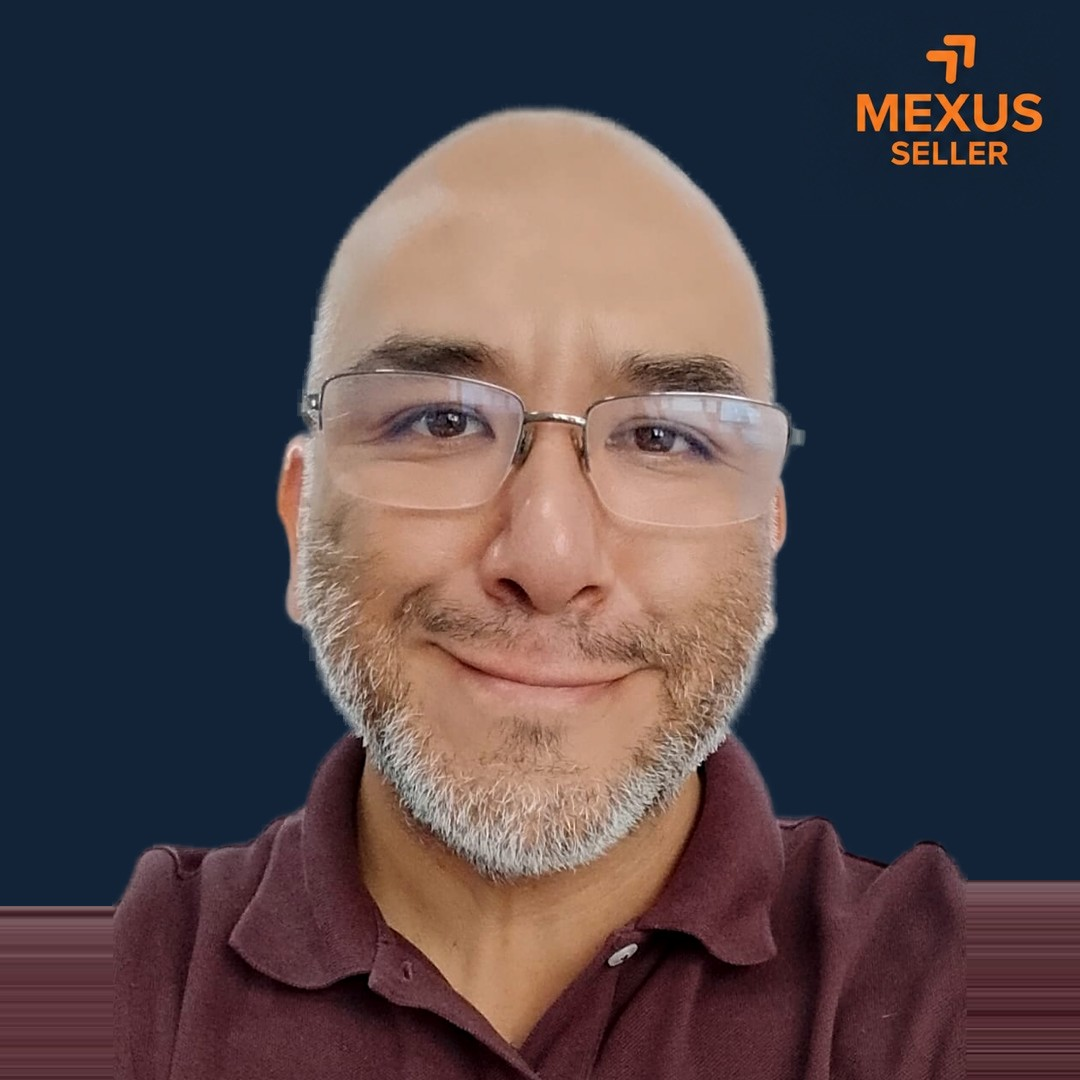
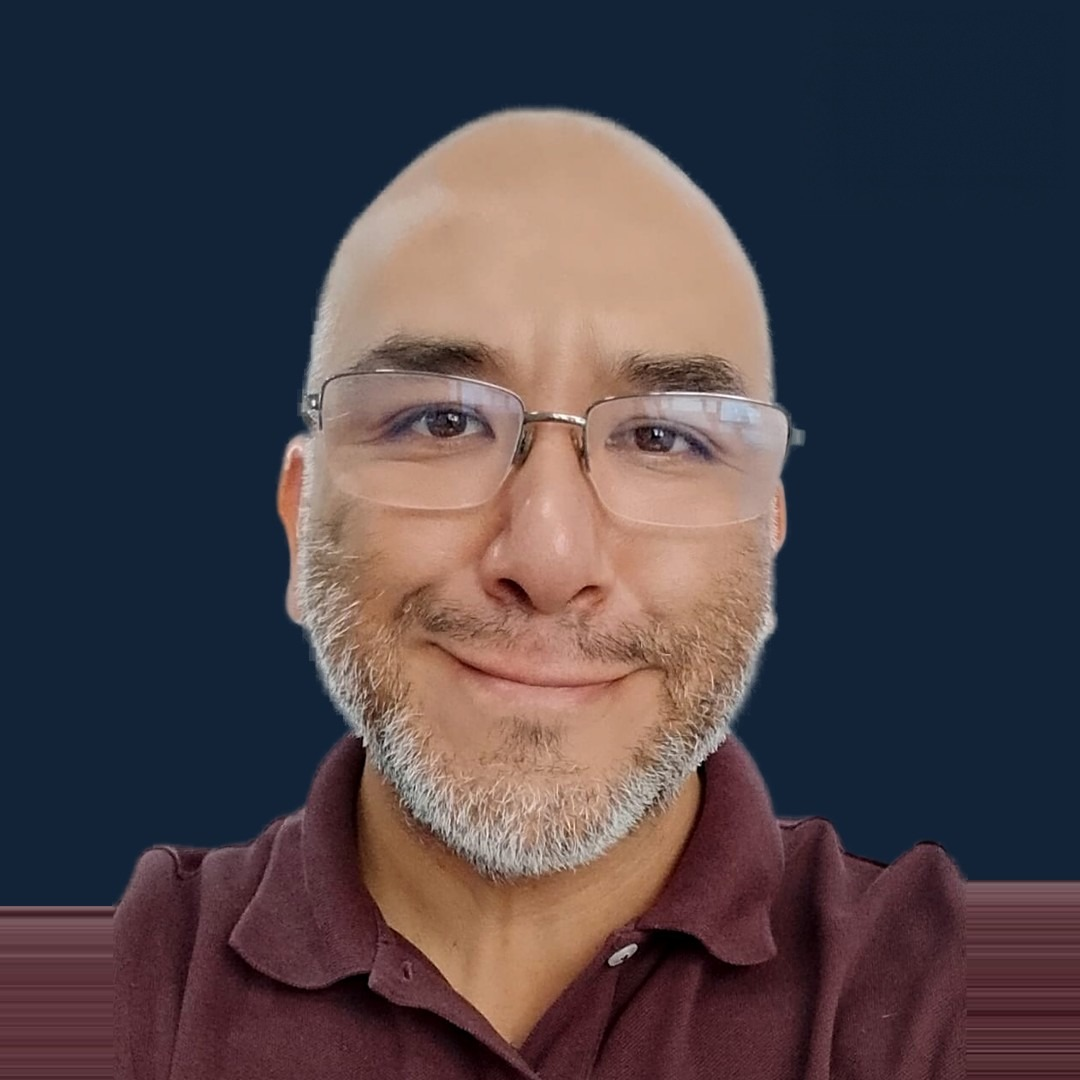
feat(home): add Sandra to the team and refresh team photos
Sandra joined as Account Specialist (catalog and operations), so she gets a
card and a mention in the team FAQ; the desktop grid moves to 6 columns so the
team stays on one row. Rodrigo's headshot is replaced with a more natural one,
and the MEXUS logo is removed from every photo since the page already carries
the brand. Image URLs are version-bumped so cached photos refresh.

Changed region(s): [[0.7944, 0.0306, 0.9778, 0.1528]]

diff --git a/index.html b/index.html
@@ -330,7 +330,7 @@ footer a{color:inherit}
   .casa .box{grid-template-columns:auto 1fr;gap:50px;align-items:center;padding:56px}
   .casa .lg{width:220px;height:220px}
   .serv .cards{grid-template-columns:repeat(3,1fr);gap:16px}
-  .tm{display:grid;grid-template-columns:repeat(5,1fr);overflow:visible;margin:28px 0 0;padding:0}
+  .tm{display:grid;grid-template-columns:repeat(6,1fr);overflow:visible;margin:28px 0 0;padding:0}
   .faq .wrap{max-width:860px}
   .final .box{padding:70px 40px}
   .final .ctas{flex-direction:row;justify-content:center;max-width:none}
@@ -721,11 +721,11 @@ const SV=[
 $('#cards').innerHTML=SV.map(s=>`<div class="sv rv${s[5]?' hi':''}">${s[4]?`<span class="tg">${s[4]}</span>`:''}<div class="ic"><svg class="ico"><use href="#${s[0]}"/></svg></div><h3>${s[1]}</h3><p>${s[2]}</p><div class="pr">${s[3]}</div></div>`).join('');
 
 // team
-const TM=[['Rodrigo Cobar','Co-founder · Operaciones','Logística, exportación MX → US, impuestos e inventario.','rodrigo.png'],['Patricio Cobar','Co-founder · Estrategia','Lanzamientos, PPC y listings. Más de 7 años en Amazon USA.','patricio.jpeg'],['Ximena','Account Manager','Listings, A+, PPC y Brand Store. Cuida la marca como propia.','ximena.jpeg'],['Liza','Account Specialist','PPC, listings, inventario y reportes de tu cuenta.','liza.jpeg'],['Marco','Diseñador de Contenido','Foto, video, imágenes y A+ de tus listings.','marco.jpeg']];
+const TM=[['Rodrigo Cobar','Co-founder · Operaciones','Logística, exportación MX → US, impuestos e inventario.','rodrigo.png?v=6'],['Patricio Cobar','Co-founder · Estrategia','Lanzamientos, PPC y listings. Más de 7 años en Amazon USA.','patricio.jpeg?v=2'],['Ximena','Account Manager','Listings, A+, PPC y Brand Store. Cuida la marca como propia.','ximena.jpeg?v=2'],['Liza','Account Specialist','PPC, listings, inventario y reportes de tu cuenta.','liza.jpeg?v=2'],['Sandra','Account Specialist','Catálogo, listings, Brand Registry e inventario de tu cuenta.','sandra.jpeg?v=2'],['Marco','Diseñador de Contenido','Foto, video, imágenes y A+ de tus listings.','marco.jpeg?v=2']];
 $('#tm').innerHTML=TM.map(m=>`<div class="mb"><div class="ph" style="background-image:url(assets/team/${m[3]})"></div><div class="in"><div class="rl">${m[1]}</div><h3>${m[0]}</h3><p>${m[2]}</p></div></div>`).join('');
 
 // faq
-const FQ=[['¿Cómo empezamos a trabajar juntos?','Con un diagnóstico gratis de 30 minutos. Revisamos tu cuenta, listings, PPC y márgenes, y te decimos qué haríamos, con números. Si hay fit, arrancamos con un plan de 90 días.'],['¿Quién opera mi cuenta en el día a día?','Nuestro equipo: Patricio en estrategia y PPC, Rodrigo en operación y logística, Ximena, Liza y Marco en contenido y cuenta. Hablas directo con ellos por WhatsApp o Slack.'],['¿Piden permanencia?','Trabajamos mes a mes después de los primeros 90 días. La cuenta y la información siempre son tuyas.'],['¿Qué incluye el reporting?','Acceso 24/7 a la plataforma con ventas, unidades, ACOS e inventario, más un reporte mensual con P&L por producto y el plan del siguiente mes.'],['Vendo en México. ¿Me pueden llevar a Estados Unidos?','Sí. Lo hicimos con nuestra propia marca: LLC, EIN, impuestos, logística, cumplimiento y lanzamiento.'],['¿Cuánto cuesta?','Full Management va de $8K a $25K MXN al mes según catálogo y mercados. PPC solo, de $5K a $15K MXN. El diagnóstico es gratis y te da el número exacto para tu caso.']];
+const FQ=[['¿Cómo empezamos a trabajar juntos?','Con un diagnóstico gratis de 30 minutos. Revisamos tu cuenta, listings, PPC y márgenes, y te decimos qué haríamos, con números. Si hay fit, arrancamos con un plan de 90 días.'],['¿Quién opera mi cuenta en el día a día?','Nuestro equipo: Patricio en estrategia y PPC, Rodrigo en operación y logística, Ximena, Sandra, Liza y Marco en contenido y cuenta. Hablas directo con ellos por WhatsApp o Slack.'],['¿Piden permanencia?','Trabajamos mes a mes después de los primeros 90 días. La cuenta y la información siempre son tuyas.'],['¿Qué incluye el reporting?','Acceso 24/7 a la plataforma con ventas, unidades, ACOS e inventario, más un reporte mensual con P&L por producto y el plan del siguiente mes.'],['Vendo en México. ¿Me pueden llevar a Estados Unidos?','Sí. Lo hicimos con nuestra propia marca: LLC, EIN, impuestos, logística, cumplimiento y lanzamiento.'],['¿Cuánto cuesta?','Full Management va de $8K a $25K MXN al mes según catálogo y mercados. PPC solo, de $5K a $15K MXN. El diagnóstico es gratis y te da el número exacto para tu caso.']];
 $('#fq').innerHTML=FQ.map(f=>`<details><summary>${f[0]}<svg class="ico"><use href="#i-plus"/></svg></summary><div class="a">${f[1]}</div></details>`).join('');
 
 watch();
